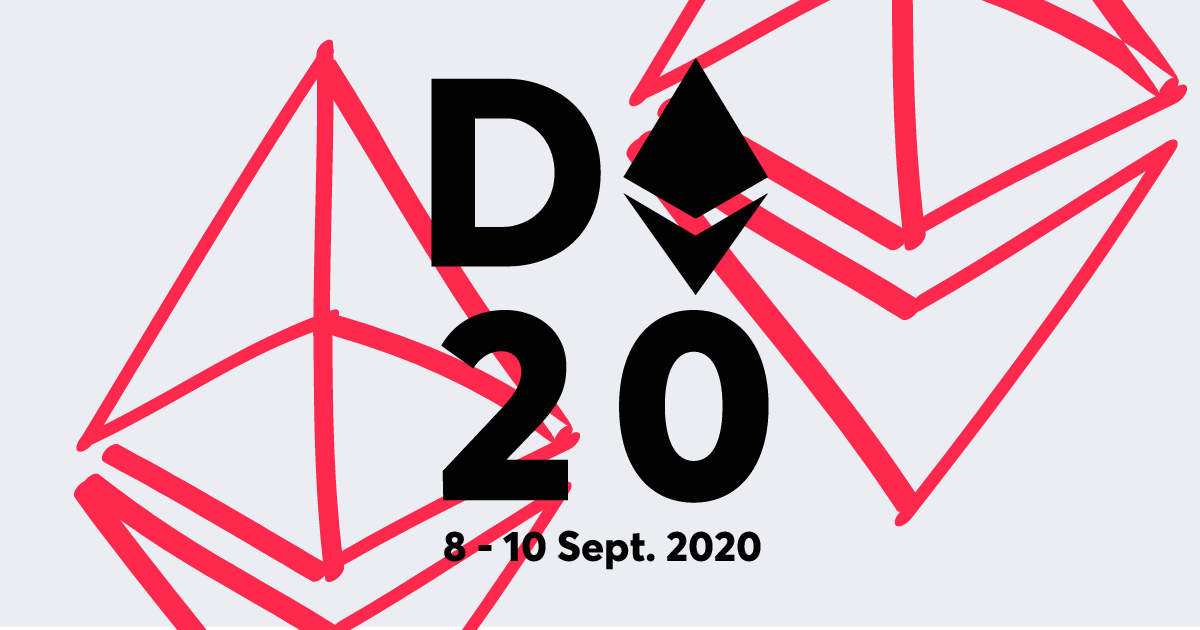
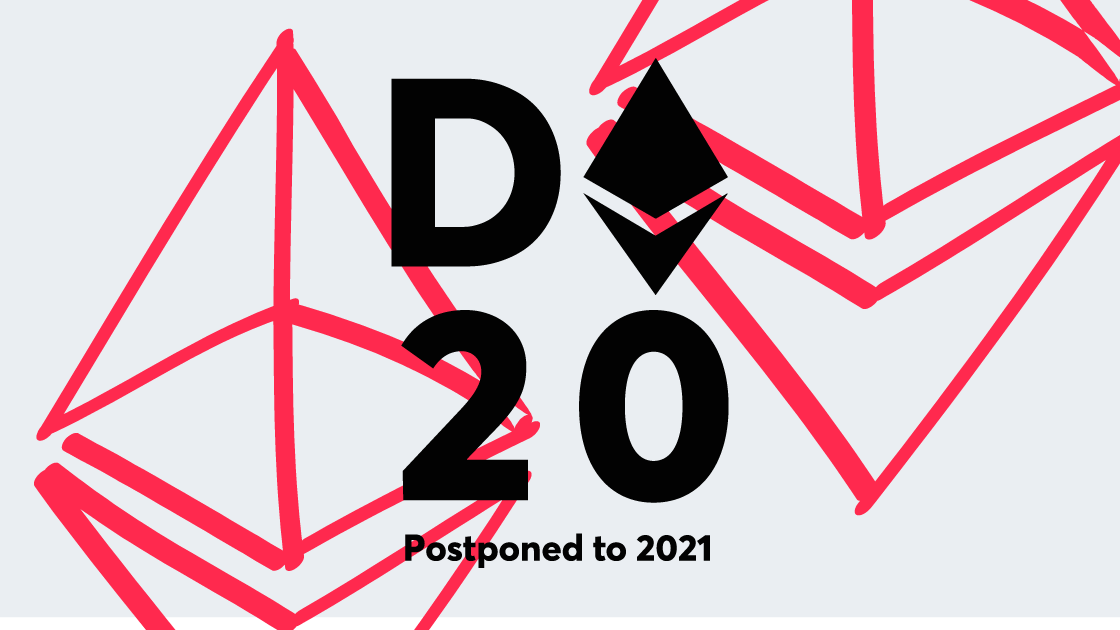
update og-image, fix btn hover state

diff --git a/src/components/MobileHeader.js b/src/components/MobileHeader.js
@@ -3,6 +3,7 @@ import styled, { css } from "styled-components"
 import { slide as Menu } from "react-burger-menu"
 import { Link } from "gatsby"
 import { MobileMenuIcon, DappconLogoSmall } from "components/Svg"
+import RightArrow from "assets/arrow-right.svg"
 import { colors } from "theme"
 
 const burgerMenuStyle = css`
@@ -90,35 +91,31 @@ const Close = styled.button`
   font-size: 22px;
   background: transparent;
   border: none;
-  color: ${colors.bgWhite};
 `
 
 const LinkCSS = css`
   font-size: 37px;
   padding: 25px 15px;
   text-align: left;
-  color: ${colors.bgWhite};
+  color: ${colors.black};
   text-decoration: none;
   font-weight: 800;
 `
 
-const StyledLink = styled(Link)`
-  ${LinkCSS}
-`
+const Arrow = ({ className, style, onClick, isRightArrow }) => (
+  <img
+    src={RightArrow}
+    className={className}
+    style={style}
+    onClick={onClick}
+    width="24px"
+    alt="Arrow"
+    onKeyDown={onClick}
+  />
+)
 
 const StyledAnchor = styled.a`
   ${LinkCSS}
-`
-
-const SIconsContainer = styled.div`
-  margin-top: 12px;
-  margin-left: 15px;
-`
-
-const SImgLink = styled.a`
-  &:not(:first-child) {
-    margin-left: 46px;
-  }
 `
 
 const MobileHeader = ({
@@ -146,10 +143,10 @@ const MobileHeader = ({
       >
         <NavigationWrapper>
           <Link to="/" onClick={() => toggleMenu(!isMenuOpen)}>
-            <DappconLogoSmall fill={colors.bgWhite} />
+            <DappconLogoSmall fill={colors.black} />
           </Link>
           <Close type="button" onClick={() => toggleMenu(!isMenuOpen)}>
-            ->
+            <Arrow />
           </Close>
         </NavigationWrapper>
         {/* <StyledLink to="/dapps" onClick={() => toggleMenu(!isMenuOpen)}>

diff --git a/src/components/IndexPage/CovidUpdateSection.js b/src/components/IndexPage/CovidUpdateSection.js
@@ -30,8 +30,8 @@ const SLink = styled.a`
   box-sizing: border-box;
 
   &:hover {
-    text-decoration: underline;
     color: ${colors.reddishPink};
+    border-color: ${colors.reddishPink};
   }
 
   @media screen and (max-width: 767px) {
